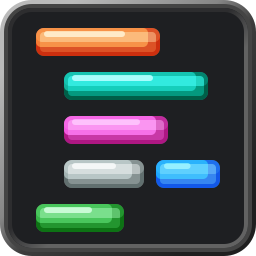
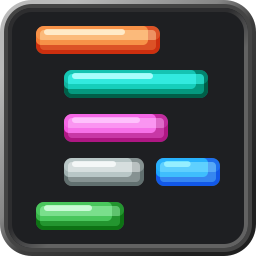
Patch 0.6.4 (#11)
* Fix color of question mark on php closing tag

* Fix colored blocks in icon not being centered

---------

diff --git a/CHANGELOG.md b/CHANGELOG.md
@@ -1,5 +1,11 @@
 # Changelog
 
+## 0.6.4
+
+### Fixed
+- Fixed color of question mark on php closing tag.
+- Fixed colored blocks in icon not being centered.
+
 ## 0.6.3
 
 ### Changed
